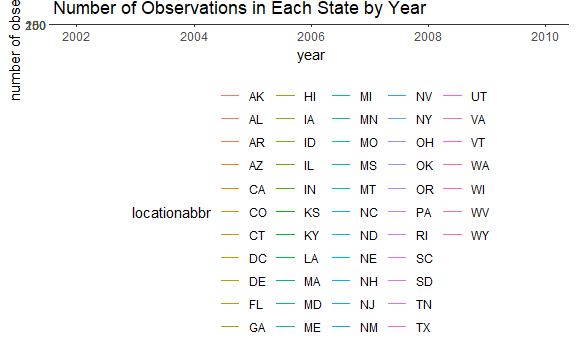
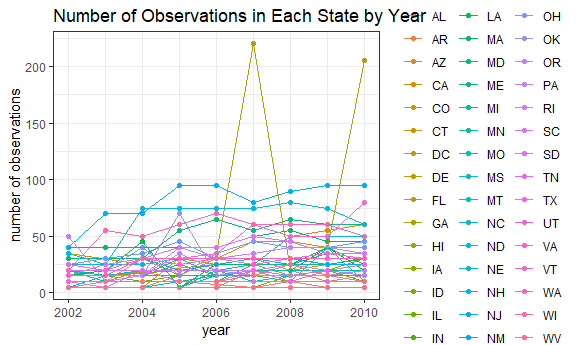
Figured out the most aisles question.

diff --git a/p8105_hw3_as5457.md b/p8105_hw3_as5457.md
@@ -10,14 +10,14 @@ Setting global settings for the format of the graphs generated for this homework
 library(tidyverse)
 ```
 
-    ## -- Attaching packages ------------------------------------------------------------------------------ tidyverse 1.2.1 --
+    ## -- Attaching packages --------------------------------------------------------------------------------- tidyverse 1.2.1 --
 
     ## v ggplot2 3.0.0     v purrr   0.2.5
     ## v tibble  1.4.2     v dplyr   0.7.6
     ## v tidyr   0.8.1     v stringr 1.3.1
     ## v readr   1.1.1     v forcats 0.3.0
 
-    ## -- Conflicts --------------------------------------------------------------------------------- tidyverse_conflicts() --
+    ## -- Conflicts ------------------------------------------------------------------------------------ tidyverse_conflicts() --
     ## x dplyr::filter() masks stats::filter()
     ## x dplyr::lag()    masks stats::lag()
 
@@ -30,7 +30,7 @@ knitr::opts_chunk$set(
 )
 
 #Ensuring that the background of the graphs are bw and legend is printed at the bottom. 
-theme_set(theme_bw() + theme(legend.position = "bottom"))
+theme_set(theme_bw() + theme(legend.position = "right"))
 ```
 
 ------------------------------------------------------------------------
@@ -59,43 +59,15 @@ brfss_smart = brfss_smart2010 %>%
 janitor::clean_names(dat = .) %>% 
   
 #Keeping only rows where the topic was "Overall Health"
-  filter(topic == "Overall Health")
+  filter(topic == "Overall Health") %>% 
+  
+#Including only responses from "Excellent" to "Poor"
+  filter(response %in% c("Excellent", "Very good", "Good", "Fair", "Poor")) %>% 
   
 #Organizing responses as a factor taking levels from "Excellent" to "Poor"
-
-brfss_smart$response = as.factor(brfss_smart$response)
-class(brfss_smart$response)
-```
-
-    ## [1] "factor"
-
-``` r
-brfss_smart %>%
   mutate(response = forcats::fct_reorder(response, display_order))
-```
 
-    ## # A tibble: 10,625 x 23
-    ##     year locationabbr locationdesc class topic question response
-    ##    <int> <chr>        <chr>        <chr> <chr> <chr>    <fct>   
-    ##  1  2010 AL           AL - Jeffer~ Heal~ Over~ How is ~ Excelle~
-    ##  2  2010 AL           AL - Jeffer~ Heal~ Over~ How is ~ Very go~
-    ##  3  2010 AL           AL - Jeffer~ Heal~ Over~ How is ~ Good    
-    ##  4  2010 AL           AL - Jeffer~ Heal~ Over~ How is ~ Fair    
-    ##  5  2010 AL           AL - Jeffer~ Heal~ Over~ How is ~ Poor    
-    ##  6  2010 AL           AL - Mobile~ Heal~ Over~ How is ~ Excelle~
-    ##  7  2010 AL           AL - Mobile~ Heal~ Over~ How is ~ Very go~
-    ##  8  2010 AL           AL - Mobile~ Heal~ Over~ How is ~ Good    
-    ##  9  2010 AL           AL - Mobile~ Heal~ Over~ How is ~ Fair    
-    ## 10  2010 AL           AL - Mobile~ Heal~ Over~ How is ~ Poor    
-    ## # ... with 10,615 more rows, and 16 more variables: sample_size <int>,
-    ## #   data_value <dbl>, confidence_limit_low <dbl>,
-    ## #   confidence_limit_high <dbl>, display_order <int>,
-    ## #   data_value_unit <chr>, data_value_type <chr>,
-    ## #   data_value_footnote_symbol <chr>, data_value_footnote <chr>,
-    ## #   data_source <chr>, class_id <chr>, topic_id <chr>, location_id <chr>,
-    ## #   question_id <chr>, respid <chr>, geo_location <chr>
-
-``` r
+#Checking if conversion of the response variable from character to factor worked
 class(brfss_smart$response)
 ```
 
@@ -105,14 +77,22 @@ class(brfss_smart$response)
 
 -   In 2002, which states were observed at 7 locations?
 
-The states that were observed at 7 locations were CT, FL, NC.
+*The states that were observed at 7 locations were CT, FL, NC.*
 
 ``` r
 brfss_smart %>%
+  
+#Filtering to only keep data for 2002
   filter(year == 2002) %>% 
+  
+#Separating locationdesc to be able to count distinct state and county
   separate(locationdesc, into = c("state", "county"), sep = " - ") %>% 
   distinct(state, county) %>% 
+  
+#Counting number of states represented
   count(state) %>% 
+  
+#Filtering states that were observed 7 times
   filter (n == 7)
 ```
 
@@ -126,16 +106,26 @@ brfss_smart %>%
 -   Make a “spaghetti plot” that shows the number of observations in each state from 2002 to 2010.
 
 ``` r
+#Making spaghetting plot called "Spaghetti"
 spaghetti = brfss_smart %>% 
+  
+#Grouping by the year and state abbreviation variables.
   group_by (year, locationabbr) %>% 
+  
+#Counting the number of times the state variable is observed
   summarize (n = n()) %>% 
+  
+#Setting up ggplot to show the spaghetti plot with points and lines connected.
   ggplot(aes(x = year, y = n, color = locationabbr)) +
+  geom_point() +
   geom_line() + 
   labs (
     title = "Number of Observations in Each State by Year",
         x = "year",
         y = "number of observations"
   )
+
+#Viewing the spaghetti plot
 spaghetti
 ```
 
@@ -144,18 +134,30 @@ spaghetti
 -   Make a table showing, for the years 2002, 2006, and 2010, the mean and standard deviation of the proportion of “Excellent” responses across locations in NY State.
 
 ``` r
+#Filtering to only keep data for the years 2002, 2006 and 2010
 year02 = brfss_smart %>% 
   filter (year == 2002)
 year06 = brfss_smart %>%
   filter (year == 2006)
 year10 = brfss_smart %>% 
   filter (year == 2010)
+
+#Combining the year-filtered datasets into one dataset
 filteredyear = bind_rows(year02, year06, year10)
 
+#Continuing to filter variables
 filteredyear %>% 
+  
+#Filtering data for NY
   filter(locationabbr == "NY") %>% 
+  
+#Filtering data for those who responded "Excellent"
   filter(response == "Excellent") %>% 
+  
+#Grouping by year variable
   group_by(year) %>% 
+  
+#Calculating mean and standard deviation
   summarize(mean_prop = mean(data_value),
             std_prop = sd(data_value))
 ```
@@ -169,26 +171,93 @@ filteredyear %>%
 
 -   For each year and state, compute the average proportion in each response category (taking the average across locations in a state). Make a five-panel plot that shows, for each response category separately, the distribution of these state-level averages over time.
 
-First converting year into a factor variable
-
 ``` r
+#First I am converting the year variable from "integer" to "Factor" to be able to make my boxplot show each year.
 brfss_smart$year=as.factor(brfss_smart$year)
 ```
 
 ``` r
 brfss_smart %>% 
+  
+#Grouping by the response, locationabbr, year variables
   group_by (response, locationabbr, year) %>% 
+  
+#Calculating the mean for each response value.
   summarize(avg_prop = mean (data_value)) %>% 
+  
+#Setting up boxplot using ggplot.
   ggplot(aes(x = year, y = avg_prop)) + 
   geom_boxplot(alpha = .5) +
   facet_grid(. ~ response) +
   labs (
-    title = "Distribution of state-level averages over time",
-        x = "year",
-        y = "average proportion"
-  )
+    title = "Distribution of State-Level Averages Over Time",
+        x = "Year",
+        y = "Average Proportion"
+  ) + theme(axis.text.x = element_text(angle = 90, hjust = 1))
 ```
 
     ## Warning: Removed 21 rows containing non-finite values (stat_boxplot).
 
 <img src="p8105_hw3_as5457_files/figure-markdown_github/unnamed-chunk-7-1.png" width="90%" />
+
+Problem 2
+=========
+
+Importing the instacart data
+
+``` r
+#Loading the dataset from the p8105.datasets package
+library(p8105.datasets)
+data("instacart")
+
+#Defining a new dataset called brfss_smart from the original dataset
+insta = instacart %>% 
+  
+#Cleaning variable names
+janitor::clean_names(dat = .)
+```
+
+The goal is to do some exploration of this dataset. To that end, write a short description of the dataset, noting the size and structure of the data, describing some key variables, and giving illstrative examples of observations.
+
+The instacart dataset provides information regarding each individual order that was placed and the products that were ordered. Additionally, it contains information regarding where in the supermarket (aisle) the ordered products can be found. The dataset size is \[1,384,617 x 15\] with rows containing repeated informmation regarding each order and columns showing important variables such as the Order ID, Product Name, Time of the Order, Location and Department of the Order etc. There are 131209 distinct customers who collectively ordered 39123 orders.
+
+**How many aisles are there, and which aisles are the most items ordered from?**
+
+*There are 134 aisles.*
+
+``` r
+unique_aisle = unique(insta$aisle_id)
+length(unique_aisle)
+```
+
+    ## [1] 134
+
+*The aisles with the most items ordered are: fresh vegetables, fresh fruits, packaged vegetables & fruits, yogurt and packaged cheese.*
+
+``` r
+insta %>%
+  group_by(aisle) %>% 
+  summarize(item_count = n()) %>% 
+  arrange(desc(item_count))
+```
+
+    ## # A tibble: 134 x 2
+    ##    aisle                         item_count
+    ##    <chr>                              <int>
+    ##  1 fresh vegetables                  150609
+    ##  2 fresh fruits                      150473
+    ##  3 packaged vegetables fruits         78493
+    ##  4 yogurt                             55240
+    ##  5 packaged cheese                    41699
+    ##  6 water seltzer sparkling water      36617
+    ##  7 milk                               32644
+    ##  8 chips pretzels                     31269
+    ##  9 soy lactosefree                    26240
+    ## 10 bread                              23635
+    ## # ... with 124 more rows
+
+Make a plot that shows the number of items ordered in each aisle. Order aisles sensibly, and organize your plot so others can read it.
+
+Make a table showing the most popular item aisles “baking ingredients”, “dog food care”, and “packaged vegetables fruits”
+
+Make a table showing the mean hour of the day at which Pink Lady Apples and Coffee Ice Cream are ordered on each day of the week; format this table for human readers (i.e. produce a 2 x 7 table).
